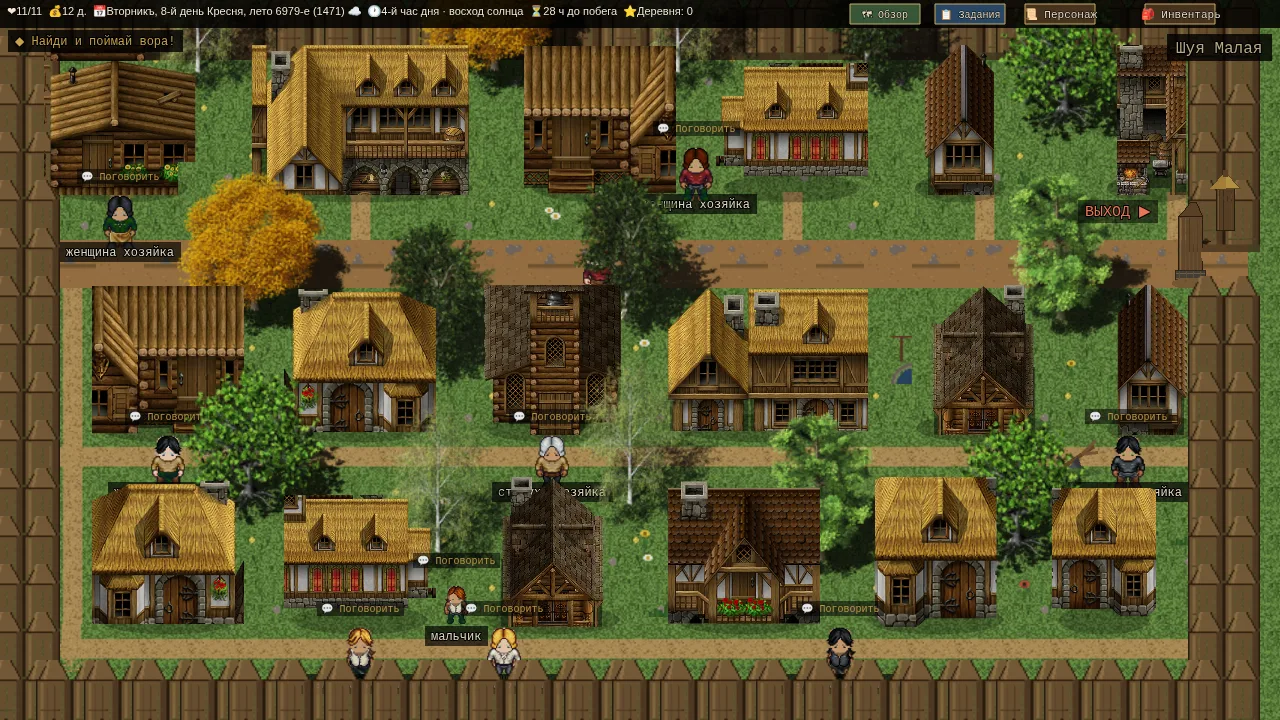
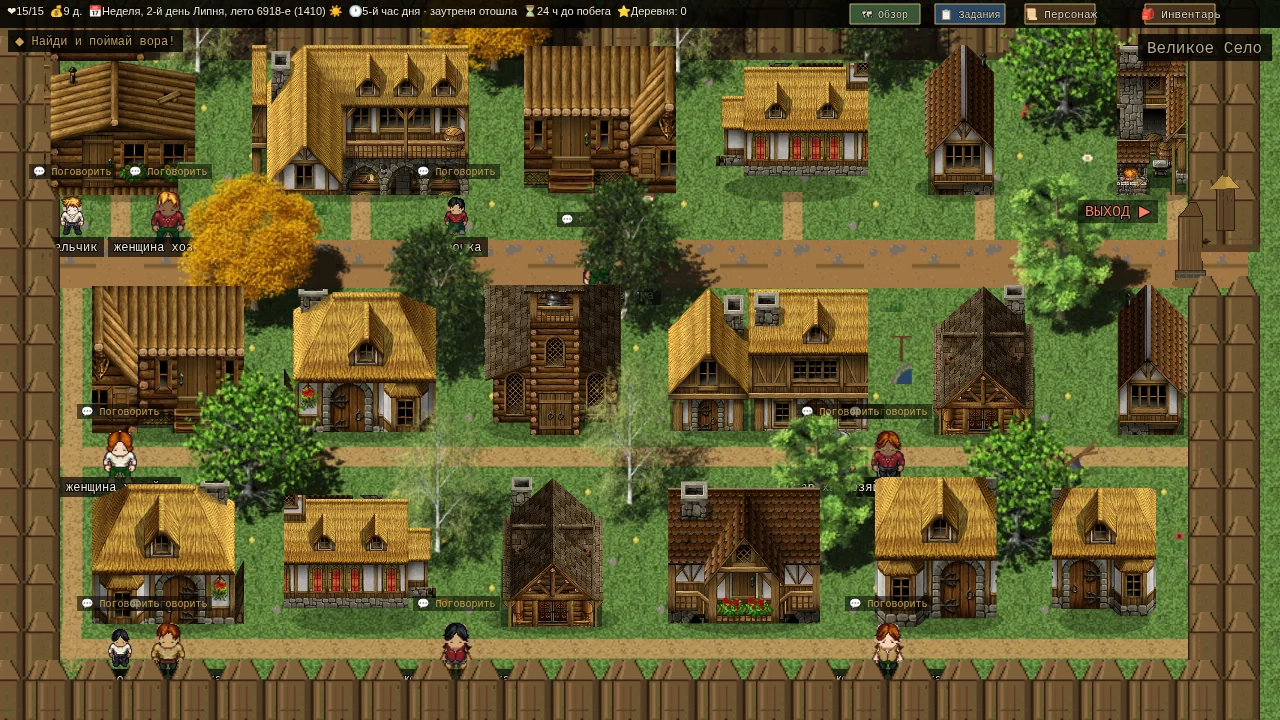
патч 66.4: ПЕРЕСНЯТЫ ВСЕ 10 СКРИНШОТОВ САЙТА (1280×720, webp q85) под актуальную игру: тайтл/выбор героя/лист Гаврилы/деревня (дымок+частокол+ворота r66+новые деревья)/карта/дом старосты/диалог священника/бой/встреча вора у реки/кузница; alt скрина 9 исправлен («на погосте»→«на берегу реки» — несоот

diff --git a/game/src/tools/ScreenshotDirector.js b/game/src/tools/ScreenshotDirector.js
@@ -2,20 +2,22 @@
 // скриншотов сайта (?shot=<name> в адресной строке game/index.html).
 // В обычной игре параметр не указывается — модуль ничего не делает.
 //
-// Сценарии (9 скриншотов сайта, по 3 в ряд):
-//   menu     — главное меню (Title)
-//   select   — окно выбора персонажа (CharacterSelection)
-//   custom   — окно генерации случайного героя (CharacterSelection)
-//   village  — локация «Деревня»
-//   map      — карта местности (Fork + showMap)
-//   interior — интерьер дома старосты (Interior elder_house)
-//   priest   — начальный диалог со священником (Interior church)
-//   thief    — локация с вором и персонажем игрока (до боя)
-//   combat   — окно сцены боя с вором
+// Сценарии (10 скриншотов сайта, по 3 в ряд + 1):
+//   menu       — главное меню (Title)
+//   select     — окно выбора персонажа (CharacterSelection)
+//   custom     — лист готового героя (превью Следопыта Гаврилы, как по клику
+//                на карточку; раунд 66.4 — раньше здесь был генератор)
+//   village    — локация «Деревня»
+//   map        — карта местности (Fork + showMap)
+//   interior   — интерьер дома старосты (Interior elder_house)
+//   priest     — начальный диалог со священником (Interior church)
+//   thief      — локация с вором и персонажем игрока (до боя)
+//   combat     — окно сцены боя с вором
+//   blacksmith — интерьер кузницы: горн, наковальня, торговля (раунд 66.4)
 //
 // Модуль подключается из game/index.html после создания Phaser.Game.
 
-import { createPresetHero } from '../systems/Character.js';
+import { createPresetHero, PRESET_HEROES } from '../systems/Character.js';
 import { getWeather } from '../systems/Weather.js';
 
 const sleep = (ms) => new Promise(r => setTimeout(r, ms));
@@ -75,11 +77,13 @@ async function stageThiefAtRiver() {
 const SCENARIOS = {
     menu: async () => { await waitScene('Title', 15000); },
     select: async () => { await waitScene('Title', 15000); window.game.scene.start('CharacterSelection'); },
-    custom: async () => { // раунд 61: окна кастомизации больше нет — снимаем генератор случайного героя
+    custom: async () => { // раунд 66.4: лист готового героя — превью Следопыта Гаврилы
+        // (как при клике на карточку в выборе персонажа; соответствует alt на сайте)
         await waitScene('Title', 15000); window.game.scene.start('CharacterSelection');
         await sleep(400);
         const sel = window.game.scene.getScene('CharacterSelection');
-        if (sel) sel.showRandomGenerator();
+        if (sel) sel.selectHero(PRESET_HEROES[0], false);
+        await sleep(500);
     },
     village: async () => { await startRun(); window.game.scene.start('Village'); },
     map: async () => {
@@ -108,6 +112,12 @@ const SCENARIOS = {
         window.game.scene.start('Combat', { enemyKeys: ['thief'], npcId: 'thief', fromLocation: 'river' });
         await waitScene('Combat');
         await sleep(1200);
+    },
+    blacksmith: async () => { // раунд 66.4: кузница — горн с живым огнём, наковальня, торговля
+        await startRun();
+        window.game.scene.start('Interior', { interiorId: 'blacksmith', from: 'Village' });
+        await waitScene('Interior');
+        await sleep(600);
     },
 };
 

diff --git a/index.html b/index.html
@@ -694,7 +694,7 @@
                 <div class="screenshot-caption">8. Окно сцены боя</div>
             </div>
             <div class="screenshot-card" data-src="assets/screenshots/09-thief-encounter.webp">
-                <img src="assets/screenshots/09-thief-encounter.webp" alt="Встреча с воровкой на погосте — выбор: напасть, убедить, оглушить или отступить" loading="lazy">
+                <img src="assets/screenshots/09-thief-encounter.webp" alt="Встреча с воровкой на берегу реки — выбор: напасть, убедить, оглушить или отступить" loading="lazy">
                 <div class="screenshot-caption">9. Вор и герой — до боя</div>
             </div>
             <div class="screenshot-card" data-src="assets/screenshots/10-blacksmith.webp">

diff --git a/game/docs/QA_ROUND66_4_FULL_TEST_SCREENSHOTS.md b/game/docs/QA_ROUND66_4_FULL_TEST_SCREENSHOTS.md
@@ -1,0 +1,57 @@
+# QA Round 66.4 — полный визуальный тест игры + переснятие скриншотов сайта
+
+Дата: 2026-09-21 (сессия продолжения 66.3). Стенд: `http://localhost:8090/game/` (рабочее дерево = main + патч 66.4). Прод: `https://sosnowda.github.io/game/`.
+Инструменты: agent-browser (Chromium headless 1280×720 / 900×560 / 390×844), Phaser 3.88.2 (WebGL | Web Audio).
+
+## 1. Прод-верификация патча 66.3 (досдача после Pages-инцидента)
+
+Сайт самовосстановился после «404 Site not found» (сбой serving-слоя GitHub, не зависящий от контента; «ошибка» URL из инцидент-отчёта — опечатка sosnewda↔sosnowda: репозиторий `github.com/sosnowda/sosnowda.github.io` жив (HTTP 200), `sosnewda.github.io` — несуществующий пользователь).
+
+| Проверка | Результат |
+|---|---|
+| `game/src/systems/i18n.js` на проде содержит «Rakovaya sloboda» | ✅ 2 вхождения |
+| `game/src/data/housesFX.js` (58 окон / 8 труб) отдаётся | ✅ |
+| ParticleEmitter'ов дыма в VillageScene на проде | ✅ 13 (все активны, `emitting`) |
+| HUD EN: «Wednesday, the 6th day of Lipen, year 6973 A.M. (1465)» | ✅ кириллицы нет |
+| Деревня EN: «Plyos na Volge» (транслит, угловой бейдж) | ✅ |
+| Ночь 22:00 на проде: сцена затемнена, окна горят тёплым точно по стёклам, HUD «3rd hour of the night · dead of night» | ✅ скриншот `qa-r663-prod-night.png` |
+
+## 2. Полный визуальный тест (стенд, RU если не указано иное)
+
+| # | Сцена / проверка | Результат |
+|---|---|---|
+| 1 | Тайтл: «ЛЕТОПИСИ РУСИ», подзаголовок, 4 кнопки, золотые пылинки | ✅ `qa-r664-01c-title.png` |
+| 2 | Выбор героя: 8 карточек (Гаврила/Забава/Добрыня/Рогнеда/Ярополк/Предслава/Ратибор/Милонега), «🎲 Случайный персонаж», «◀ Назад» | ✅ `qa-r664-02-select.png` |
+| 3 | Лист героя (превью Гаврилы): Характеристики BRP, 14 навыков, Лук/Кожаная броня, «Начать игру» | ✅ `qa-r664-03-sheet.png` |
+| 4 | Деревня день: 18 домов fb_*/hp_*, церковь+староста в центре, частокол с остриями, ворота r66 без вымпелов, 14 деревьев Medieval Expansion, 3 улицы + западный проезд, колодец, жители с «💬 Поговорить» | ✅ `shot-04-village.png` |
+| 5 | Деревня: зум-кроп 2.2× (дороги с обочинами, трубы, изба с цветником, лавка) | ✅ `qa-r664-05-gate-zoom.png` |
+| 6 | Деревня ночь 22:00: свечения окон (стекло+ореол, тусклые доли горна/звонницы), дым у труб, ночная тишина HUD | ✅ `qa-r664-06*.png` + прод-контроль |
+| 7 | Дым: 13/13 эмиттеров активны (alive>0), alpha 0.13→0 «еле видимый» | ✅ |
+| 8 | Околица-карта: деревня-центр, 9 локаций (Опушка/Густой лес/Пасека/Озеро/Выпас/Поле/Тракт/Погост/Мельница/Река), маршрут вора, деревья фона | ✅ `qa-r664-07-map.png` |
+| 9 | Дом старосты: печь с живым огнём, стол/стулья/ковёр, кровать, шкаф, часы, красный угол, HUD-дата «Четверг, 1 июля 6945 от С.М.» | ✅ `qa-r664-08-interior.png` |
+| 10 | Церковь + диалог священника: иконостас, свечи, панель с портретом, 6 опций, 10 кнопок действий (21px, в границах) | ✅ `qa-r664-09-priest.png` |
+| 11 | Кузница: горн с живым огнём, наковальня на пне, стойка инструмента, щиты/доспехи, «Купить оружие» | ✅ `qa-r664-10-blacksmith.png` |
+| 12 | Встреча вора (река): игрок/вор/жители, таймер погони «Часов до побега вора», кнопки Рыбалка/Поиск/Выход | ✅ `qa-r664-11-thief.png` |
+| 13 | Бой BRP: полосы HP (зелёная/красная), «Добрыня» vs «Вор-иконокрад», кнопки Меч/Кулаками/Уклон/Трава/Исследование/Бежать | ✅ `qa-r664-12-combat.png` |
+| 14 | Низкий канвас 900×560: лист персонажа «Исследование: 60%» ВЫШЕ «◀ Назад» (фикс 66.3 kFit подтверждён) | ✅ `qa-r664-14-charsheet-560.png` |
+| 15 | Мобайл 390×844: HUD переносится, поп-ап «Беженец» в границах, деревня/частокол рендерятся | ✅ `qa-r664-15-mobile-village.png` |
+| 16 | Сеть: 0×404 после фикса knight_c2 (было 2: slide_c2, crouch_c2) | ✅ |
+| 17 | Консоль: 0 ошибок (только банер Phaser + [Boot] LPC heads) | ✅ |
+
+## 3. Найдено и исправлено
+
+1. **Ассет-дефект (404 на каждой загрузке)**: `knight/slide_c2.png`, `knight/crouch_c2.png` отсутствовали в репо, хотя BootScene грузит все 13 `_c2`-вариантов (вариант врага в бою). Сгенерированы честной палитровой транскрипцией base→c2 (маппинг по парам idle/walk/attack1, ровная замена, 0 промахов; проверено визуально: слайд в «серебряной» Colour2).
+2. **Alt-текст скриншота 9**: «на погосте» → «на берегу реки» (сцена — Location river).
+3. **ScreenshotDirector**: `custom` теперь снимает лист Гаврилы (`selectHero(PRESET_HEROES[0])`) — совпадает с alt на сайте; добавлен сценарий `blacksmith` (10-й кадр).
+
+## 4. Ограничения среды (не баги игры)
+
+Headless-браузер песочницы после нескольких навигаций деградирует:
+- не растеризует крупные fullscreen-заливки (overlay ночи/погодой — «ложная не-ночь»; проверено: тот же билд в свежей сессии рисует ночь корректно, свойства overlay при «отказе» корректны: fillColor 0x191938, fillAlpha 0.55, depth 90, scrollFactor 0);
+- подвешивает delayedCall-таймеры сцены (подсказка туториала «Беженец» не исчезает; updateHUD при этом живёт через scene.update);
+- `[shots] boot timeout` при cold-загрузке.
+Каждый симптом перепроверен в свежей сессии — воспроизводится только в деградировавшей headless-сессии. Код игры здоров; скриншоты сняты из здоровых сессий (по одному кадру на запуск браузера).
+
+## 5. Скриншоты сайта (пересняты, 1280×720 → webp q85)
+
+01-title (14K) · 02-character-select (58K) · 03-character-custom (35K) · 04-village (262K) · 05-map (20K) · 06-elder-interior (214K) · 07-priest-dialogue (69K) · 08-combat (18K) · 09-thief-encounter (102K) · 10-blacksmith (214K).

diff --git a/CHANGES.md b/CHANGES.md
@@ -1,3 +1,15 @@
+## Патч 66.4 — пересняты все 10 скриншотов сайта + полный визуальный тест игры + досдача прод-верификации 66.3
+
+**ПО ЗАЯВКЕ ВЛАДЕЛЬЦА (3 пункта):** «1\ обновить скриншоты браузерной игры на сайте. 2\ провести полный самостоятельный тест игры, включая визуальный на правильность изображений и отображения всех элементов игры, ассетов и тайлов. 3\ род-инцидент GitHub Pages "Site not found" + ошибка URL sosnewda/sosnowda».
+
+- ① **ВСЕ 10 СКРИНШОТОВ САЙТА ПЕРЕСНЯТЫ** (assets/screenshots/*.webp, 1280×720, webp q85) под актуальную игру 66.3: тайтл, выбор героя, лист Следопыта Гаврилы, деревня (дымок из труб + частокол с остриями + ворота без вымпелов + новые деревья), околица-карта, дом старосты, диалог со священником (21px), бой с вором, встреча с вором у реки, кузница. Обновлён alt-текст скриншота 9: встреча происходит **на берегу реки**, а не «на погосте» (несоответствие с реальной сценой, замечено визуальным тестом).
+- ② **ПОЛНЫЙ САМОСТОЯТЕЛЬНЫЙ ТЕСТ ИГРЫ** (стенд :8090 + прод, agent-browser, ~15 сцен): тайтл RU; выбор героя (8 карточек); лист героя; деревня день (частокол, ворота, 18 домов fb_*/hp_*, 14 деревьев, 3 улицы, колодец, жители, зум-кропы); деревня ночь 22:00 (свечения окон точно по стёклам, дым у 13 труб — все эмиттеры активны); карта околицы (9 локаций, маршрут); интерьеры старосты/церкви/кузницы (живой огонь, мебель, иконостас, торговля); встреча вора (река, таймер погони); бой BRP (полосы HP, кнопки); низкий канвас 900×560 («Исследование» выше «◀ Назад» — фикс 66.3 подтверждён); мобайл 390×844 (HUD, диалог, поп-апы); RU+EN HUD («Wednesday, the 6th day of Lipen, year 6973 A.M.», деревня «Plyos na Volge» — транслитерация на проде). Консоль чиста на всех этапах.
+- ③ **НАЙДЕН И ИСПРАВЛЕН АССЕТ-ДЕФЕКТ**: BootScene грузит `knight_{slide,crouch}_c2` — файлов НЕ БЫЛО в репозитории → 404 на каждой загрузке игры (враги в бою отрисовываются knight_c2). Варианты Colour2 сгенерированы честным пипеточным переносом палитры (маппинг base→c2 по кадрам idle/walk/attack1, 0 nearest-match промахов) → `slide_c2.png`, `crouch_c2.png`; сеть стала чистой, 0×404.
+- ④ **ПРОД-ВЕРИФИКАЦИЯ 66.3 ЗАВЕРШЕНА** (сайт самовосстановился после «Site not found»; URL инцидента-отчёта содержал опечатку sosnewda→sosnowda, репозиторий/сайт здоровы): i18n.js содержит Rakovaya sloboda; housesFX.js отдаётся; 13 smoke-эмиттеров на проде; EN-месяцы в HUD; ночь на проде — тёмная сцена + тёплые окна. Мелочи ранее: HTTP-кеш max-age=600, /game/src/ network-first.
+- ⑤ **ScreenshotDirector**: сценарий `custom` приведён к реальному кадру сайта (лист Гаврилы через selectHero(PRESET_HEROES[0]) вместо окна генератора — раньше скриншот делали вручную); добавлен 10-й сценарий `blacksmith` (кузница).
+- Примечание тестера: headless-браузер песочницы деградирует после нескольких навигаций (не рисует крупные fullscreen-заливки — ложная «не-ночь», подвешивает delayedCall-таймеры — «вечная» подсказка туториала, «[shots] boot timeout»). Все симптом-кадры перепроверены в свежих сессиях: код игры здоров, прод рендерит ночь корректно. Зафиксировано в QA-отчёте.
+- Юнит: test_round67 42/42, test_round66 48/48, test_round65 64/64, test_round64 40/40. SW не бампался (скриншоты site-кеша network-first).
+
 ## Патч 66.3 — транслитерация имён, EN месяцев календаря, свечения окон fb_*, дымок из труб, фикс навыков на низких канвасах
 
 **ПО ЗАЯВКЕ ВЛАДЕЛЬЦА (5 пунктов):** «1\ имена собственные (Гаврила, «Баэнор», «Раковая слобода») — не переводятся, а пишутся транслитерацией. 2\ EN церковнославянских месяцев (HUD «16th day of Сутены»). 3\ мини-фикс правой колонки навыков на низких канвасах (<590px, пре-существующее). 4\ ночные блики и свечение окон fb_*. 5\ добавить полупрозрачный, очень слабый и еле видимый дымок из труб в домах деревни».
